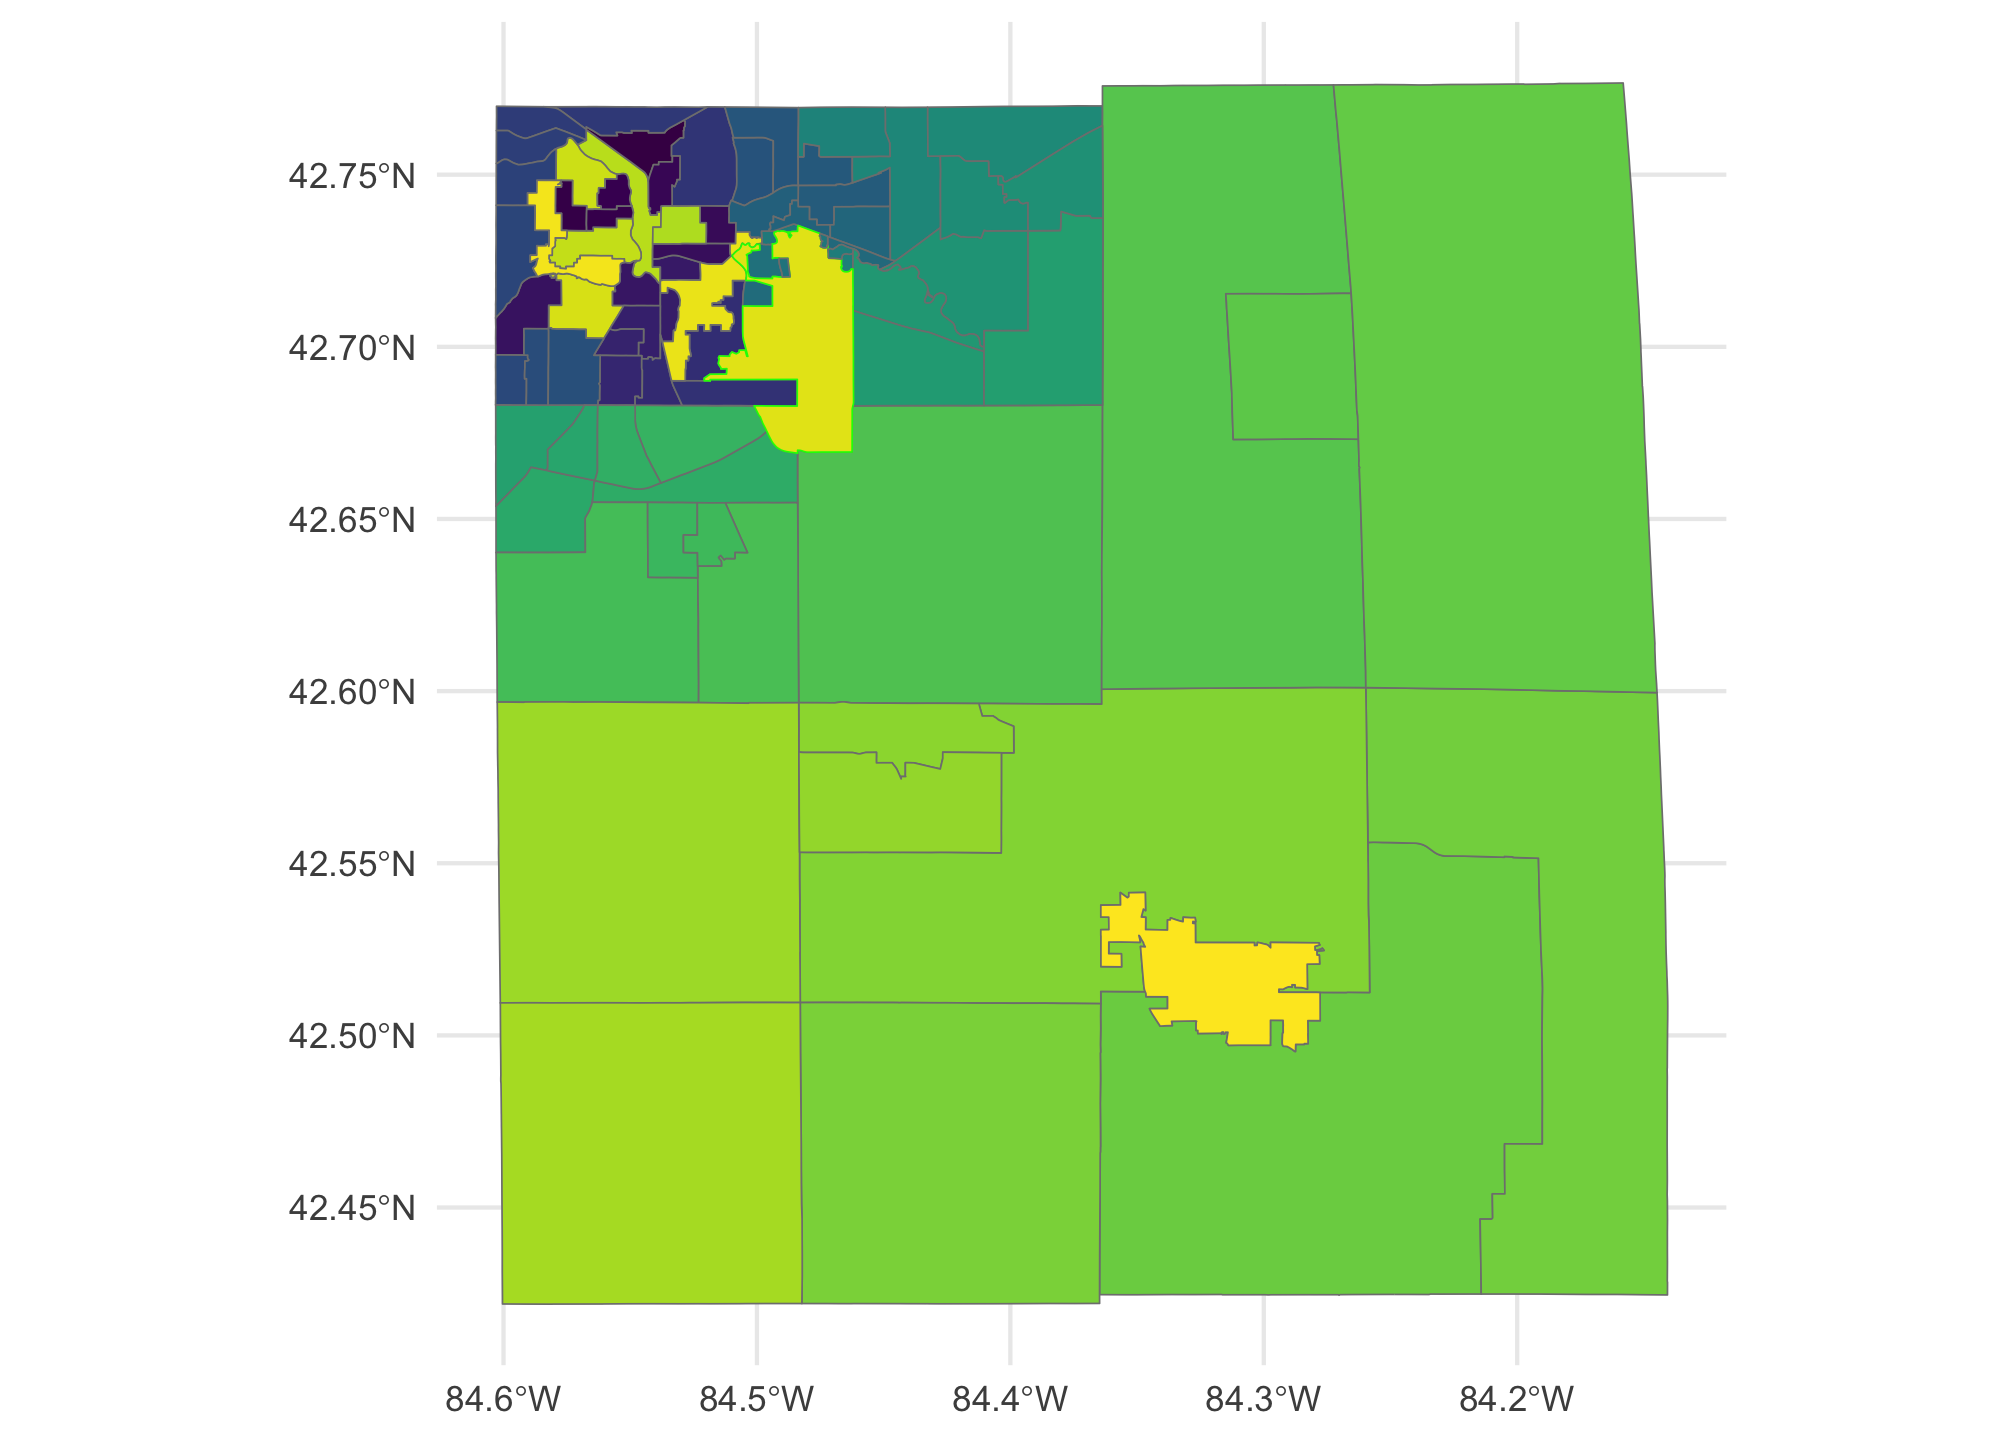
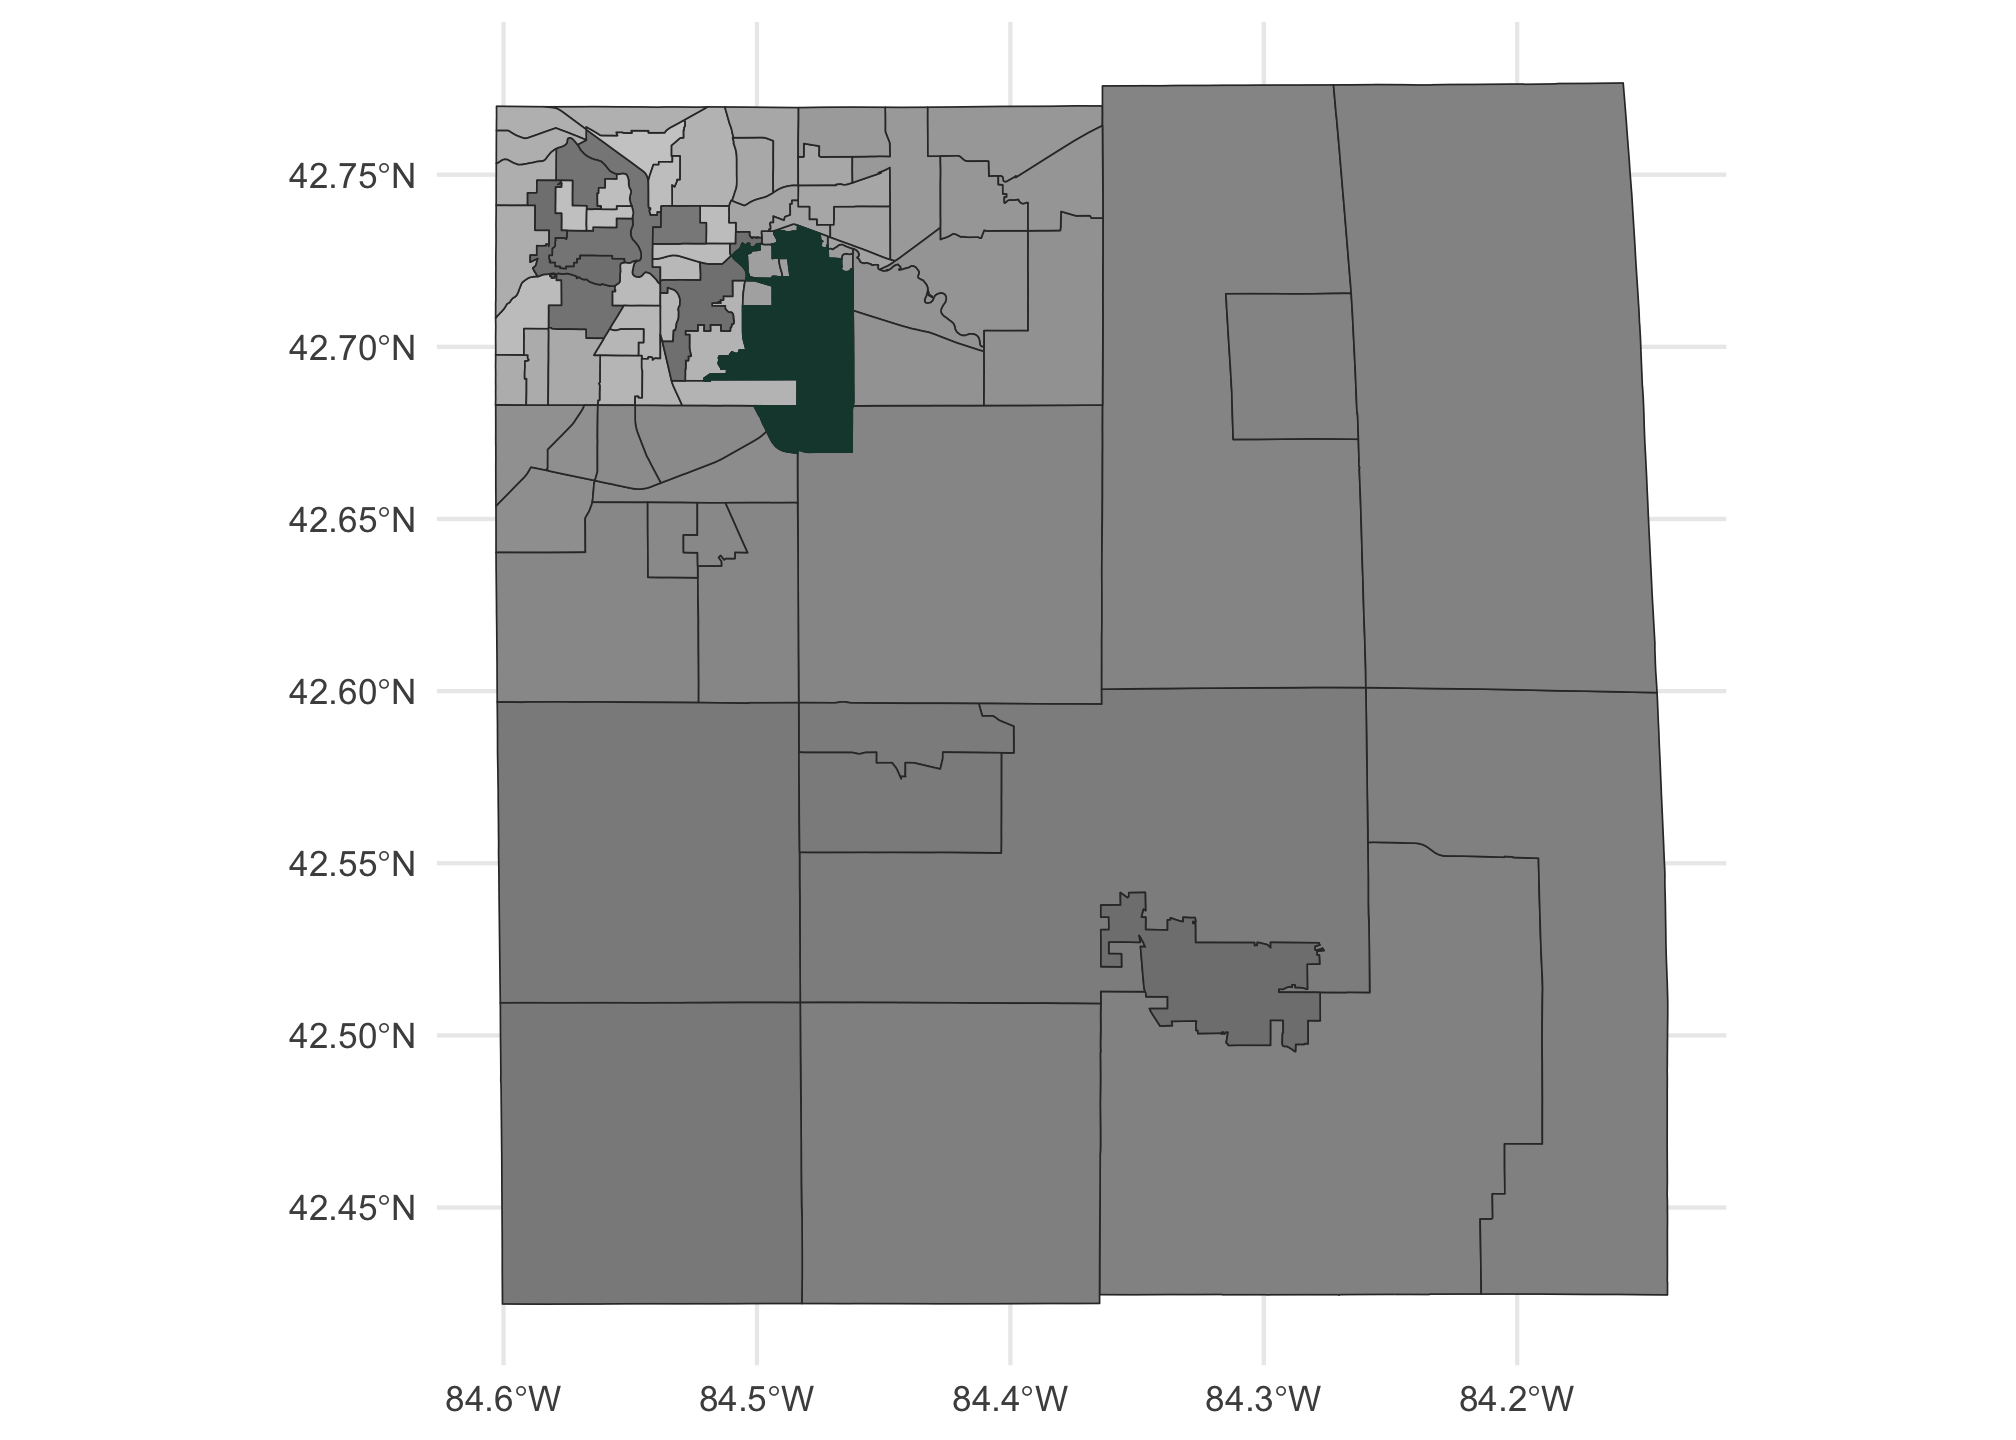
oops

diff --git a/content/example/14-example.html b/content/example/14-example.html
@@ -18,7 +18,7 @@ output:
 
 <div id="TOC">
 <ul>
-<li><a href="#a-little-more-on-geospatial-in-r" id="toc-a-little-more-on-geospatial-in-r">A little more on Geospatial in R</a>
+<li><a href="#more-geospatial-in-r" id="toc-more-geospatial-in-r">More Geospatial in <code>R</code></a>
 <ul>
 <li><a href="#tigris-for-polygons" id="toc-tigris-for-polygons">Tigris for polygons</a></li>
 <li><a href="#tidycensus" id="toc-tidycensus">Tidycensus</a>
@@ -31,24 +31,25 @@ output:
 </ul>
 </div>
 
-<p>Our last class!</p>
-<div id="a-little-more-on-geospatial-in-r" class="section level1">
-<h1>A little more on Geospatial in R</h1>
-<p>We went over the basics and got some practice using geospatial data in R. Let’s look closely at the <code>tidycensus</code> packages. Thus far, we have used <code>tigris</code> to get TIGER/line census boundaries for things like counties. <code>tidycensus</code> does more than this – we can pull actual census data with its geospatial references (the polygons referring to the counties, tracts, block groups, and blocks) <em>along with</em> census data because <code>tidycensus</code> interfaces with <code>tigris</code> to combine the census data and the census geographies.</p>
+<p>Welcome to our last class. Please make sure you pay close attention to the requirements for the final project.</p>
+<div id="more-geospatial-in-r" class="section level1">
+<h1>More Geospatial in <code>R</code></h1>
+<p>We went over the basics and (hopefully) got some practice using geospatial data in R. Let’s now look closely at the <code>tidycensus</code> packages. These offer a way to get census data and attach it to geospatial data—a common practice in social science research.</p>
+<p>To help you understand the relationship between packages, let’s briefly zoom out. Thus far we have used <code>tigris</code> to get TIGER/line census boundaries for things like counties. Although this can be helpful, <code>tidycensus</code> does more than this – we can pull actual US Census Data with its geospatial references (the polygons referring to the counties, tracts, block groups, and blocks). It’s helpful to do this in one step and getting geospatial references <em>along with</em> census data is possible because <code>tidycensus</code> interfaces with <code>tigris</code> to combine the census data and the census geographies.</p>
 <div id="tigris-for-polygons" class="section level2">
 <h2>Tigris for polygons</h2>
 <p>Make sure you load <code>tigris</code> (for spatial data) and <code>tidycensus</code> for census data to attach to the spatial data:</p>
 <pre class="r"><code>library(tigris)
 library(tidycensus)
 library(tidyverse)</code></pre>
-<p>We already saw that we could extract counties using the <code>tigris::counties</code> function. Some “census geographies” change from year to year. Counties don’t (usually), but census tracts, block groups, and blocks do. These last three are all nested units of observation - tracts hold multiple block groups, each block group holds multiple blocks. Blocks are pretty small, and a lot of census data isn’t reported at that level for confidentiality. Block groups don’t report all data, either. Tracts are usually the most reliable balance between “census data availability” and “small geographic area”. We’ll use the 2010 census boundaries by specifying <code>year = 2010</code>.</p>
+<p>We already saw that we could extract counties using the <code>tigris::counties</code> function. Some “census geographies” change from year to year. Counties don’t (usually), but census tracts, block groups, and blocks do. These last three are all <strong>nested</strong> units of observation - tracts hold multiple block groups, each block group holds multiple blocks. Blocks are pretty small, and a lot of census data isn’t reported at that level for confidentiality. Block groups don’t report all data, either. Tracts are usually the most reliable balance between “census data availability” and “small geographic area”. We’ll use the 2010 census boundaries by specifying <code>year = 2010</code>.</p>
 <p>Let’s look at MI counties, then look at Ingham County census tracts:</p>
 <pre class="r"><code>MI.counties = tigris::counties(state=&#39;MI&#39;, year = 2010, progress_bar = FALSE)
 ggplot(MI.counties, aes(fill = NAME10) ) + 
   geom_sf() + 
   theme_minimal() + theme(legend.position = &#39;none&#39;)</code></pre>
 <p><img src="/example/14-example_files/figure-html/unnamed-chunk-3-1.png" width="672" /></p>
-<p>As you can see, we get some counties that extend into the Great Lakes. That’s OK - we can use <code>st_intersect</code> with a map of the Great Lakes to clean that up, but I won’t do that here.</p>
+<p>As you can see, we get some counties that extend into the Great Lakes. That’s okay. We could use <code>st_intersect</code> with a map of the Great Lakes to clean that up as illustrated last class, but I’ll leave that as an exercise for you.</p>
 <p>Now, the census tracts for Ingham County. We can use <code>str_detect</code> to find the County FIPS for Ingham:</p>
 <pre class="r"><code>Ingham_FIPS = MI.counties %&gt;%
   dplyr::filter(str_detect(NAME10, &#39;Ingham&#39;)) %&gt;%
@@ -76,10 +77,13 @@ print(Ingham.tracts %&gt;% dplyr::select(TRACTCE10, NAME10, GEOID10))</code></pr
 ## 2023    001703  17.03 26065001703 MULTIPOLYGON (((-84.58662 4...
 ## 2024    004494  44.94 26065004494 MULTIPOLYGON (((-84.46658 4...</code></pre>
 <p>Notice the <code>GEOID10</code> starts with the MI FIPS (26), the Ingham FIPS (065), then the 6 digits that make up the <code>TRACTCE10</code> value. This is because tracts are nested in states and counties.</p>
-<p>Finally, let’s show all the Ingham County tracts. I’ve changed the color mapping for the <code>col</code> aesthetic so that the tract that holds MSU will be outlined in green:</p>
-<pre class="r"><code>ggplot(Ingham.tracts, aes(fill = TRACTCE10, col = (NAME10==&#39;9800&#39;))) + 
-  geom_sf() + theme_minimal() + theme(legend.position = &#39;none&#39;) + scale_fill_viridis_d() +
-  scale_color_manual(values = c(&#39;TRUE&#39; = &#39;green&#39;,&#39;FALSE&#39; = &#39;gray50&#39;))</code></pre>
+<p>Finally, let’s show all the Ingham County tracts. I’ve changed the color mapping for the <code>col</code> aesthetic so that the tract that holds MSU will be colored in the appropriate green:</p>
+<pre class="r"><code>ggplot(Ingham.tracts) +
+  geom_sf(aes(fill = TRACTCE10), color = &#39;gray20&#39;) +  # Apply grey scale based on TRACTCE10
+  scale_fill_grey(start = 0.8, end = 0.5) +           # Grey scale fill for all tracts
+  geom_sf(data = Ingham.tracts[Ingham.tracts$NAME10 == &#39;9800&#39;, ], fill = &#39;#18453b&#39;, color = &#39;#18453b&#39;) +
+  theme_minimal() +
+  theme(legend.position = &#39;none&#39;)</code></pre>
 <p><img src="/example/14-example_files/figure-html/unnamed-chunk-5-1.png" width="672" /></p>
 </div>
 <div id="tidycensus" class="section level2">
@@ -277,7 +281,7 @@ ing.tenure</code></pre>
 <h3>Wrapping up</h3>
 <p>Finding census variables via <code>tidycensus</code> can be frustrating, and other sources exist to help lookup census tables. One useful tip is that you can use the “filter” button in your Rstudio <code>View()</code> window to interactively filter the <code>concept</code> column from <code>load_variables</code>. Once you find what you want there, then use the <code>get_acs</code> function in your code. Fundamentally, it’s a lot of information with the ability to subset in many way, which makes it hard to wade through and find what you’re looking for.</p>
 <div class="fyi">
-<p>Try it! (This will be your Lab 14, due on Monday)</p>
+<p>Try it! This is your 14th and final Weekly Writing <em>or</em> Lab, due on <strong>MONDAY</strong> If you need an additional Weekly Writing, you must do this. If you need an additional lab, you must do this.</p>
 <ol style="list-style-type: decimal">
 <li><p>Load up all the necessary packages</p></li>
 <li><p>Find the FIPS for your home county (or a county you’re interested in)</p></li>

diff --git a/content/assignment/14-assignment.html b/content/assignment/14-assignment.html
@@ -19,7 +19,7 @@ editor_options:
 <div class="fyi">
 <p>You must turn in a PDF document of your <code>R Markdown</code> code. Submit this to D2L by 11:59 PM Eastern Time on *Monday December 11th.**</p>
 </div>
-<p>This assignment builds from the Example for this week. Your assignment is to make a map of some interesting census variable for your home county. If your home county is outside the US, you can use any county you like.</p>
+<p>This assignment builds from the Example for this week. Your assignment is to make a map of some interesting census variable for your home county. If your home county is outside the US, you can use any county within the US that you like.</p>
 <div class="fyi">
 <p><strong>Exercise 1 of 1</strong></p>
 <ol style="list-style-type: decimal">
